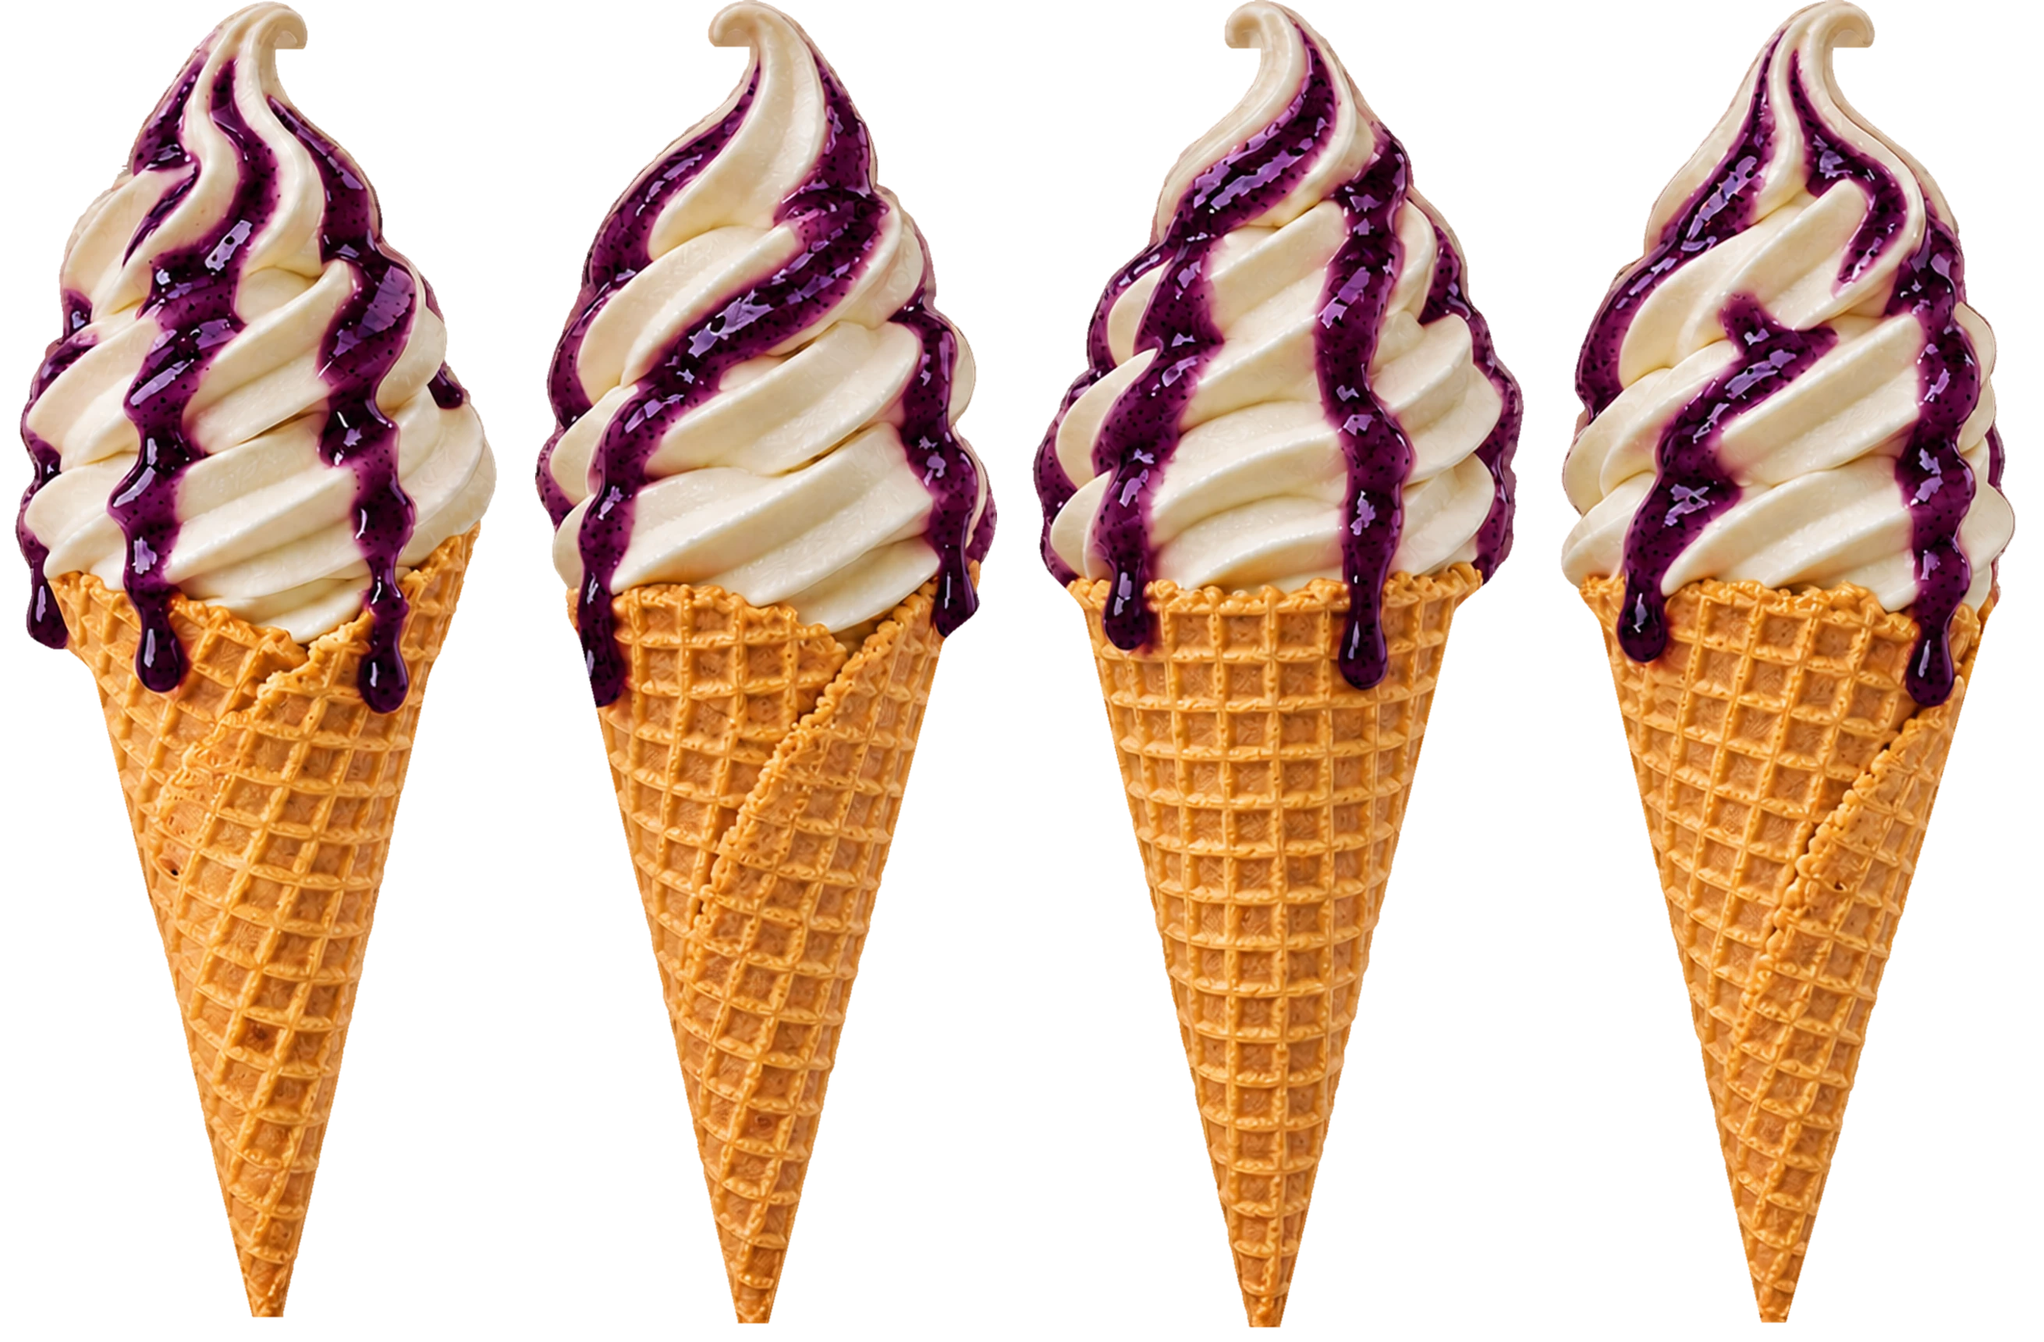
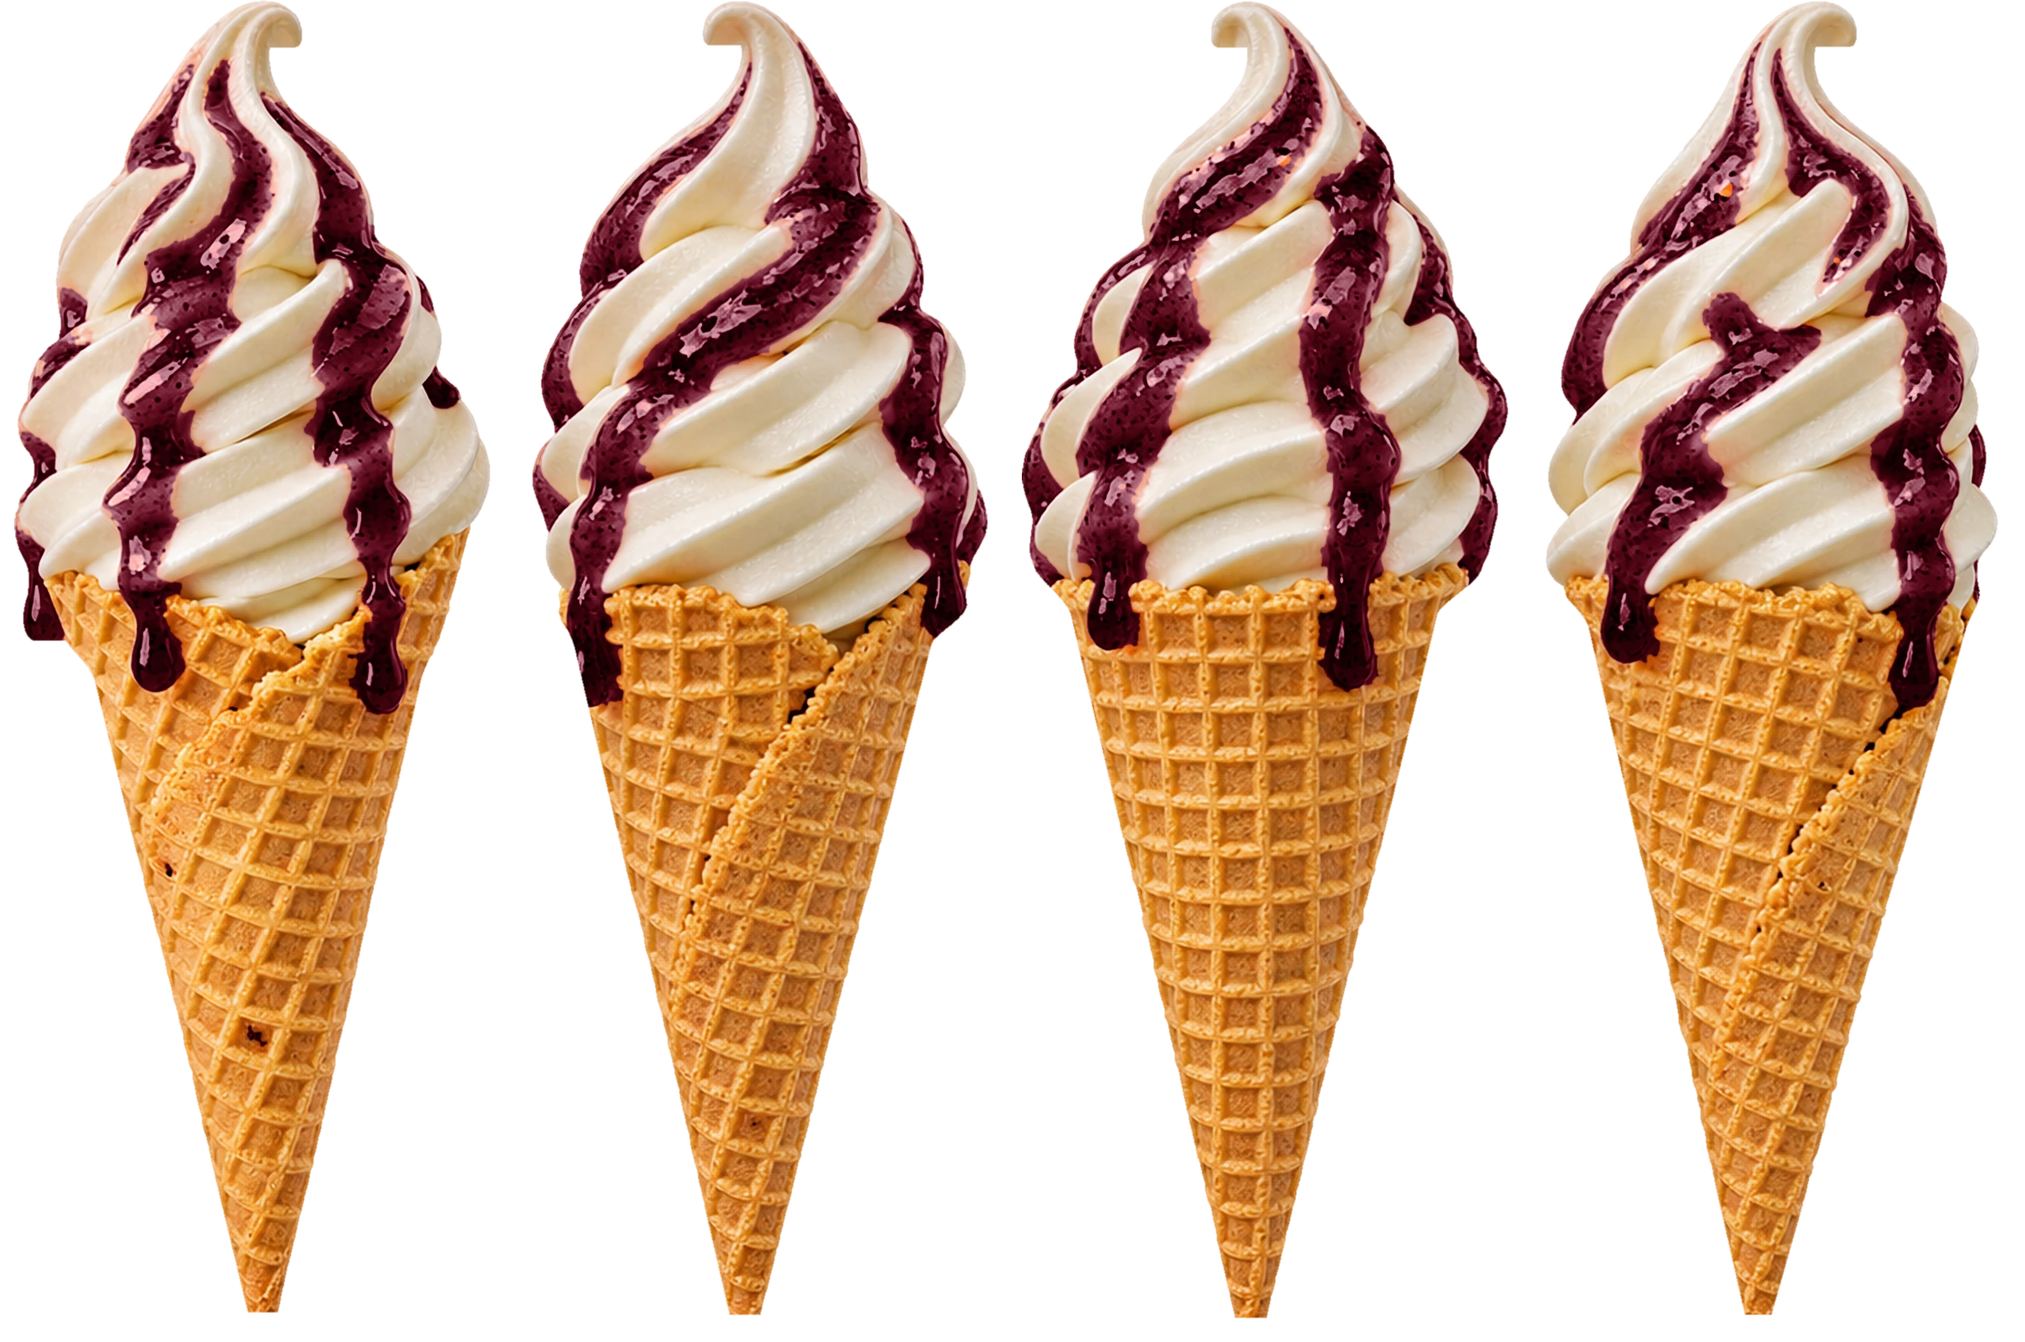
Cone: back to adaef56 version (strawberry 4-view, recolored jam, spin); previous state tagged backup-cone-sway-front-hd

Changed region(s): [[0.0, 0.0, 0.9985, 1.0]]

diff --git a/src/three/Cone3D.ts b/src/three/Cone3D.ts
@@ -1,5 +1,5 @@
-// Рожок в 3D по четырём ракурсам (листы пользователя «Четыре рожка…»): тело вращения по общему профилю,
-// видимый бок — из снимка, ближайшего к зрителю (0°, 90°, 180°, 270°); при повороте снимки сменяются растворением.
+// Рожок в 3D по четырём ракурсам (лист пользователя «Четыре ракурса…»): тело вращения по общему профилю,
+// на каждую сторону ложится ракурс, который на неё смотрит (0°, 90°, 180°, 270°), между соседними — плавный переход.
 // Поэтому рожок можно поворачивать широко: сзади настоящая сторона, а не зеркальная копия передней.
 // Вкус меняет только джем: атласы public/cone/atlas-<вкус>.webp (собирает scripts/build-cone.py).
 // При смене вкуса новый атлас проступает поверх старого. Динамика страницы — в ягодах на фоне.
@@ -32,14 +32,14 @@ const POSES: Record<"desk" | "mob", Record<string, Pose>> = {
   },
 };
 
-// ---- геометрия: тело вращения; для каждой вершины — координаты в каждом из 4 ракурсов и насколько ракурс её видит
+// ---- геометрия: тело вращения; для каждой вершины — координаты в каждом из 4 ракурсов и их вес
 function bodyGeometry() {
   const J = 160;
   const N = profile.v.length;
   const pos: number[] = [],
     uvA: number[] = [],
     uvB: number[] = [],
-    cov: number[] = [],
+    wts: number[] = [],
     idx: number[] = [];
   for (let i = 0; i < N; i++) {
     const v = profile.v[i];
@@ -48,15 +48,19 @@ function bodyGeometry() {
       const a = (j / J) * Math.PI * 2;
       pos.push(r * K * Math.sin(a), (v - 0.5) * HW, r * K * Math.cos(a));
       const uv: number[] = [];
+      const w: number[] = [];
       for (let k = 0; k < 4; k++) {
         const rel = a - (k * Math.PI) / 2;
         const pv = profile.views[k];
         // ракурс k смотрит на сторону с углом k·90°; точка видна в нём со смещением sin(rel) от оси
-        uv.push((k + pv.cx[i] + pv.r[i] * 0.985 * Math.sin(rel)) / 4, v);
-        cov.push(Math.cos(rel)); // > 0 — точка на видимой ракурсу стороне
+        const u = (k + pv.cx[i] + pv.r[i] * 0.985 * Math.sin(rel)) / 4;
+        uv.push(u, v);
+        w.push(Math.pow(Math.max(0, Math.cos(rel)), 10)); // узкий переход: почти всегда виден один чёткий ракурс
       }
+      const sum = w.reduce((s, x) => s + x, 0) || 1;
       uvA.push(uv[0], uv[1], uv[2], uv[3]);
       uvB.push(uv[4], uv[5], uv[6], uv[7]);
+      wts.push(...w.map((x) => x / sum));
     }
   }
   for (let i = 0; i < N - 1; i++)
@@ -69,51 +73,39 @@ function bodyGeometry() {
   g.setAttribute("position", new THREE.Float32BufferAttribute(pos, 3));
   g.setAttribute("aUvA", new THREE.Float32BufferAttribute(uvA, 4));
   g.setAttribute("aUvB", new THREE.Float32BufferAttribute(uvB, 4));
-  g.setAttribute("aCov", new THREE.Float32BufferAttribute(cov, 4));
+  g.setAttribute("aW", new THREE.Float32BufferAttribute(wts, 4));
   g.setIndex(idx);
   return g;
 }
 
-// Фото без освещения (свет уже «в снимке»). Весь видимый бок рожка берётся из ОДНОГО снимка — того, что ближе
-// всего к зрителю (uCam), поэтому посередине нет швов и двоения. Соседний снимок подхватывает только самый край,
-// которого основной не видит. При повороте снимки сменяются быстрым растворением.
+// фото без освещения (свет уже «в снимке»); смешиваем ракурсы с учётом прозрачности, затем два вкуса
 const VS = `
 attribute vec4 aUvA;
 attribute vec4 aUvB;
-attribute vec4 aCov;
-uniform vec4 uCam;
+attribute vec4 aW;
 varying vec4 vUvA;
 varying vec4 vUvB;
 varying vec4 vW;
 void main() {
-  vUvA = aUvA; vUvB = aUvB;
-  vec4 c = max(aCov, 0.0);
-  vec4 w = uCam * smoothstep(0.1, 0.38, c) + 1e-4 * pow(c, vec4(8.0));
-  vW = w / max(w.x + w.y + w.z + w.w, 1e-6);
+  vUvA = aUvA; vUvB = aUvB; vW = aW;
   gl_Position = projectionMatrix * modelViewMatrix * vec4(position, 1.0);
 }`;
 const FS = `
 uniform sampler2D uA;
 uniform sampler2D uB;
-uniform sampler2D uFA;
-uniform sampler2D uFB;
-uniform float uHA;
-uniform float uHB;
 uniform float uMix;
 varying vec4 vUvA;
 varying vec4 vUvB;
 varying vec4 vW;
-// лицо (ракурс 0) берём из отдельной текстуры двойного разрешения, когда она загружена
-vec4 views(sampler2D t, sampler2D f, float hasF) {
-  vec4 c0 = hasF > 0.5 ? texture2D(f, vec2(vUvA.x * 4.0, vUvA.y)) : texture2D(t, vUvA.xy);
-  vec4 c1 = texture2D(t, vUvA.zw), c2 = texture2D(t, vUvB.xy), c3 = texture2D(t, vUvB.zw);
+vec4 views(sampler2D t) {
+  vec4 c0 = texture2D(t, vUvA.xy), c1 = texture2D(t, vUvA.zw), c2 = texture2D(t, vUvB.xy), c3 = texture2D(t, vUvB.zw);
   vec3 rgb = c0.rgb * c0.a * vW.x + c1.rgb * c1.a * vW.y + c2.rgb * c2.a * vW.z + c3.rgb * c3.a * vW.w;
   float a = c0.a * vW.x + c1.a * vW.y + c2.a * vW.z + c3.a * vW.w;
   return vec4(rgb, a);
 }
 void main() {
-  vec4 p = views(uA, uFA, uHA);
-  vec4 q = views(uB, uFB, uHB);
+  vec4 p = views(uA);
+  vec4 q = views(uB);
   vec4 c = mix(p, q, uMix);
   if (c.a < 0.5) discard;
   gl_FragColor = vec4(c.rgb / c.a, 1.0);
@@ -143,27 +135,7 @@ export function createCones(canvas: HTMLCanvasElement, onReady?: () => void) {
       });
     }));
 
-  // лицо рожка в двойном разрешении — только на ДВ (на телефоне рожок мельче, хватает атласа), после первого экрана
-  const front: (THREE.Texture | null)[] = IDS.map(() => null);
-  const loadFront = (i: number) => {
-    if (mobile || front[i]) return;
-    loader.load(`${BASE}/cone/front-${IDS[i]}.webp`, (t) => {
-      t.colorSpace = THREE.NoColorSpace;
-      t.anisotropy = renderer.capabilities.getMaxAnisotropy();
-      front[i] = t;
-    });
-  };
-
-  const uniforms = {
-    uA: { value: null as THREE.Texture | null },
-    uB: { value: null as THREE.Texture | null },
-    uFA: { value: null as THREE.Texture | null },
-    uFB: { value: null as THREE.Texture | null },
-    uHA: { value: 0 },
-    uHB: { value: 0 },
-    uMix: { value: 0 },
-    uCam: { value: new THREE.Vector4(1, 0, 0, 0) },
-  };
+  const uniforms = { uA: { value: null as THREE.Texture | null }, uB: { value: null as THREE.Texture | null }, uMix: { value: 0 } };
   const mat = new THREE.ShaderMaterial({ vertexShader: VS, fragmentShader: FS, uniforms, side: THREE.FrontSide });
   const root = new THREE.Group();
   const turn = new THREE.Group();
@@ -178,11 +150,7 @@ export function createCones(canvas: HTMLCanvasElement, onReady?: () => void) {
     uniforms.uB.value = t;
     root.visible = true;
     onReady?.();
-    setTimeout(() => {
-      loadFront(current);
-      IDS.forEach((_, i) => i !== current && load(i));
-      setTimeout(() => IDS.forEach((_, i) => loadFront(i)), 1500);
-    }, 300);
+    setTimeout(() => IDS.forEach((_, i) => i !== current && load(i)), 300);
   });
 
   const ptr = { x: 0, y: 0, sx: 0, sy: 0 };
@@ -236,6 +204,7 @@ export function createCones(canvas: HTMLCanvasElement, onReady?: () => void) {
   let swap = 1,
     target = current,
     t = 0,
+    spin = 0,
     raf = 0,
     last = performance.now();
 
@@ -261,7 +230,7 @@ export function createCones(canvas: HTMLCanvasElement, onReady?: () => void) {
       }
     }
 
-    // ---- поза по разделам
+    // ---- поза по разделам; рожок медленно вращается, мышь добавляет поворот и наклон
     let p = P.hero;
     p = mix(p, P.pour, ease(stage.openIn));
     p = mix(p, P.flv, ease(stage.flvIn));
@@ -270,23 +239,9 @@ export function createCones(canvas: HTMLCanvasElement, onReady?: () => void) {
     turn.visible = stage.away < 0.999;
     ptr.sx += (ptr.x - ptr.sx) * (1 - Math.exp(-4 * dt));
     ptr.sy += (ptr.y - ptr.sy) * (1 - Math.exp(-4 * dt));
-    // рожок не прокручивается: лицом к зрителю (снимок 0), только чуть поворачивается вправо-влево (от −13° до 0°);
-    // в этих пределах весь видимый бок — из одного снимка, без швов
-    // диапазон сдвинут в сторону, где макушка целая: при повороте в другую сторону завиток макушки
-    // выходит за тело вращения и в нём видна щель
-    turn.rotation.set(0, reduced ? -0.11 : -0.11 + Math.sin(t * 0.6) * 0.12, 0);
-    // какой снимок смотрит на зрителя: зритель в координатах рожка — под углом −rotation.y
-    const cam = [0, 1, 2, 3].map((k) => Math.pow(Math.max(0, Math.cos(-turn.rotation.y - (k * Math.PI) / 2)), 24));
-    const cs = cam[0] + cam[1] + cam[2] + cam[3];
-    uniforms.uCam.value.set(cam[0] / cs, cam[1] / cs, cam[2] / cs, cam[3] / cs);
-
-    // лицо высокого разрешения для обоих смешиваемых вкусов (пока не загружено — берётся из атласа)
-    const fa = front[current],
-      fb = front[target];
-    uniforms.uFA.value = fa ?? uniforms.uA.value;
-    uniforms.uHA.value = fa ? 1 : 0;
-    uniforms.uFB.value = fb ?? uniforms.uB.value;
-    uniforms.uHB.value = fb ? 1 : 0;
+    if (!reduced) spin += dt * 0.35;
+    turn.rotation.y = spin + ptr.sx * 1.2;
+    turn.rotation.x = ptr.sy * 0.25;
 
     renderer.render(scene, camera);
   }

diff --git a/CLAUDE.md b/CLAUDE.md
@@ -8,15 +8,13 @@
 
 - Next 16 + SCSS-модули, `u()` из `src/styles/_core.scss` (ДВ 1440 / контент 1280; МВ ≤1023 — колонка 358).
   Шрифты: Unbounded (заголовки) + Manrope. Тексты — `src/content.ts`, у вкуса своя палитра (bg/bg2/ink/accent).
-- Рожок — по трём листам пользователя «Четыре рожка с … джемом» (Downloads; по листу на вкус, кадр одинаковый).
-  `scripts/cone-views.py` (окружение с opencv-contrib + EDSR_x4.pb) вырезает 4 ракурса одними рамками и увеличивает их;
-  `scripts/build-cone.py` делает общую форму (по объединённому силуэту), внутри — сплошное фото (капли сбоку срезаны);
-  джем у каждого вкуса свой, с листа, без перекраски → `public/cone/atlas-<вкус>.webp` (4 ракурса в ряд) + `src/three/profile.json`.
-  Лицо (view0) ещё и в двойном разрешении: `cone-views.py … --front` (EDSR x4) → `public/cone/front-<вкус>.webp`; грузится на ДВ после первого экрана.
-  `src/three/Cone3D.ts`: тело вращения; видимый бок — из снимка, ближайшего к зрителю (uCam), соседний только на краю.
-  Рожок НЕ поворачивается (пользователь против вращения): снимок 0 лицом к зрителю, только чуть поворачивается (от −13° до 0°, в другую сторону у макушки щель), без прокрутки.
+- Рожок (сейчас, по выбору пользователя) — версия коммита adaef56: 4 ракурса с листа клубники «Четыре ракурса ванильного рожка
+  с клубничным джемом.png», джем малины/ежевики перекрашен (палитра по яркости с её фото), постоянное вращение 0.35 рад/с,
+  смешение ракурсов cos^10. Атласы `public/cone/atlas-<вкус>.webp` + `src/three/profile.json` — из того коммита
+  (скрипт сборки той версии — `git show adaef56:scripts/build-cone.py`; текущий build-cone.py — для родных листов по вкусу).
+  Запасные состояния: метка `backup-cone-sway-front-hd` (родной джем с трёх листов, лицо в 2x, только покачивание −13°…0°),
+  метка `backup-single-photo-cone` (одно фото на вкус).
   Смена вкуса — новый атлас проступает поверх старого. Экран загрузки — `Preloader.tsx` (ждёт `yg:ready`).
-  Прежний вариант (одно фото на вкус) — ветка/метка `backup-single-photo-cone`.
   Позы — `POSES` в Cone3D.ts; на МВ рожок встаёт в `[data-cone-spot]` / `[data-flv-spot]`.
 - Ягоды — настоящие фото с удалённым фоном (`public/fruit/*.webp`, rembg isnet), `Fruits.tsx`: два слоя — за рожком и перед ним (размытые); в блоке вкусов зеркалятся за рожком; ниже блока вкусов скрыты.
   Источник: Wikimedia Commons, Ivar Leidus (CC BY-SA 4.0) — атрибуция в подвале обязательна.
